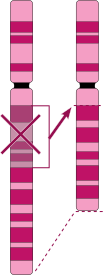
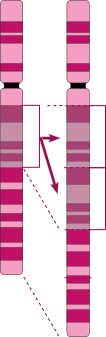
fixes

diff --git a/bio_gloss.tex b/bio_gloss.tex
@@ -7,6 +7,36 @@
     type=defi
 }
 
+\newglossaryentry{monocistronisch}{
+    name={monocistronisch},
+    description={todo},
+    type=defi
+}
+
+\newglossaryentry{polycistronisch}{
+    name={polycistronisch},
+    description={todo},
+    type=defi
+}
+
+\newglossaryentry{operon}{
+    name={Operon},
+    description={todo},
+    type=defi
+}
+
+\newglossaryentry{transelement}{
+    name={trans-Element},
+    description={Transkriptionsfaktoren (Proteine), die an die cis-Elemente binden},
+    type=defi
+}
+
+\newglossaryentry{ciselement}{
+    name={cis-Element},
+    description={regulatorische Elemente im Promotor, ``in'' der DNA},
+    type=defi
+}
+
 \newglossaryentry{nondisjunction}{
     name={Nondisjunction},
     description={Das fehlende Auseinanderweichen von zwei homologen Chromosomen bei der Meiose I oder das Nichttrennen von Schwesterchromatiden durch eine Störung der Anaphase während der Mitose, Meiose I oder der Meiose II.},

diff --git a/eukgen/sections/v4.tex b/eukgen/sections/v4.tex
@@ -39,7 +39,7 @@ Die Transkription wird von einer DNA‐abhängigen \gls{rnapol} katalysiert. \ci
 
 
 \section{RNA-Klassen in Eukaryoten}\label{sec:rna-klassen-in-eukaryoten}
-% TODO F 13
+%  F 13
 In eukaryontischen Zellen gibt es mehrere Klassen von \gls{rna}
 und es werden immer neue Klassen gefunden, die entsprechend ihrer
 Funktion oder Lokalisation in der Zelle benannt werden.
@@ -48,7 +48,7 @@ Der Anteil \gls{ncrna} steigt mit höherer Komplexität eines Organismus.
 \cite{Knust2025_9}
 
 
-\subsection{\gls{rna} Polymerasen}\label{sec:rna-polymerasen}
+\subsection{\gls{rna} Polymerasen}\label{subsec:rna-polymerasen}
 % F 14 - 20
 % TODO F 15, 18-20
 \begin{table}[h]
@@ -87,7 +87,7 @@ Der Anteil \gls{ncrna} steigt mit höherer Komplexität eines Organismus.
 \frage{aufbaurnapol}
 
 \frage{welchepolinpflanzen}
-\subsection{rDNA}
+\subsection{rDNA}\label{subsec:rdna}
 \defin{rdna}
 Die Ribosomen von Eukaryonten werden im \gls{nukleolus} zusammengebaut.
 Die Bildung des \gls{nukleolus} geht vom Nukleolus‐Organisator, der aus der \gls{nor} entsteht. \cite{Knust2025_9}
@@ -97,7 +97,7 @@ Besonderheit der \gls{rdna}: Sie hat eine ``Sichtbare Genexpression''.
 D.h. man die Genexpression direkt ``sehen'',
 weil das Genprodukt selbst \gls{rna} ist.
 
-\subsection{Aufbau der eukaryotischen \gls{mrna}}
+\subsection{Aufbau der eukaryotischen \gls{mrna}}\label{subsec:aufbau-der-eukaryotischen-gls{mrna}}
 %  F 22 - 30
 % TODO Frage Was muss man über die Enden der euk \gls{mrna} wissen
 Die Enden eukaryotischer \gls{mrna} sind modifiziert, was sie von prokaryotischer \gls{mrna} unterscheidet.
@@ -164,7 +164,7 @@ Adenosinreste).
 % TODO Exkurs: Oligo(dT) Reinigung ??? F29
 
 
-\section{Promotoren - Start der Transkription}
+\section{Promotoren - Start der Transkription}\label{sec:promotoren-start-der-transkription}
 Der \gls{promotor} bestimmt den Start der Transkription.
 Er ist durch spezifische DNA‐Sequenzen (Boxen) charakterisiert.
 Bei Eukaryonten weist er eine komplexere Organisation als bei Prokaryonten auf.
@@ -208,7 +208,7 @@ Jede \gls{rnapol} erkennt eigene, spezifische Promotorsequenzen, die ihre Zielge
 Besteht aus zwei Domänen die ca 40\% Identität aufweisen.
 % TODO muss das auf eien karte?
 
-\subsection{Boxen}
+\subsection{Boxen}\label{subsec:boxen}
 Das TATA-box Binding Protein (TBP) ist ein zentraler Faktor der Promotorerkennung bei allen drei \glspl{rnapol}.
 \defin{uas}
 \defin{urs}

diff --git a/mobi2/main.tex b/mobi2/main.tex
@@ -71,6 +71,14 @@
     \chapter{VW6 - Rekombination, Transformation, Transduktion, Konjugation}
     \input{sections/v15_VW6}
 
+    %\input{sections/v16_VW7}
+
+    \chapter{Transposons, T-DNA und (grüne) funktionelle Genomik}
+    \input{sections/v17_BW8}
+
+    \chapter{Entw.-Genetik, ``high throughput'' Sequenzierung}
+    \input{sections/v18_BW9}
+
     % \chapter{VW1}
    % \chapter{VW2}
 

diff --git a/mobi2/sections/v12_BW6.tex b/mobi2/sections/v12_BW6.tex
@@ -124,19 +124,19 @@ Beendigung der Replikation auftreten.}{\cite{Knust2025_Mutationen}}
 \begin{figure}[H]
     \begin{subfigure}[t]{0.33\textwidth}
         \centering
-        \includegraphics[width=\linewidth]{bilder/deletion}
+        \includegraphics[height=10cm]{bilder/deletion}
         \caption{Deletion}
     \end{subfigure}
     \hfill
     \begin{subfigure}[t]{0.33\textwidth}
         \centering
-        \includegraphics[width=\linewidth]{bilder/duplikation}
+        \includegraphics[height=10cm]{bilder/duplikation}
         \caption{Duplikation}
     \end{subfigure}
     \hfill
     \begin{subfigure}[t]{0.33\textwidth}
         \centering
-        \includegraphics[width=\linewidth]{bilder/inversion}
+        \includegraphics[height=10cm]{bilder/inversion}
         \caption{Inversion}
     \end{subfigure}
     \caption{Mutationen, die ein Chromosom betreffen.}

diff --git a/mobi2/sections/v10_BW5.tex b/mobi2/sections/v10_BW5.tex
@@ -125,7 +125,7 @@ Stellen vom Referenzgenom unterscheiden.
 
 \subsection{Verpackungsstufen}
 \begin{figure}[H]
-    \includegraphics[height=25cm]{bilder/verpackungsstufen}
+    \includegraphics[height=15cm]{bilder/verpackungsstufen}
 \end{figure}
 Siehe \defiref{zehnnmfaser}, \defiref{dreißignmfaser}. \defiref{chromosom} und \defiref{chromatid}.
 \defin{chromatinschleife}

diff --git a/README.md b/README.md
@@ -58,10 +58,10 @@ https://liliana-sanfilippo.github.io/uni/mobi2.pdf
 | KW 17 | Mo, 20.04.  | :construction: |                 | Fr, 24.04.  | :construction: |                 |
 | KW 18 | Mo, 27.04.  | :construction: |                 | Fr, 01.05.  | :construction: |                 |
 | KW 19 | Mo, 04.05.  | :construction: |                 | Fr, 08.05.  | :no_entry:     |                 |
-| KW 20 | Mo, 11.05.  | :construction: |                 | Fr, 15.05.  | :construction: |                 |
-| KW 21 | Mo, 18.05.  | :no_entry:     |                 | Fr, 22.05.  | :no_entry:     |                 |
+| KW 20 | Mo, 11.05.  | :construction: |                 | Fr, 12.05.  | :construction: |                 |
+| KW 21 | Mo, 18.05.  | :no_entry:     |                 | Fr, 19.05.  | :construction: |                 |
 | KW 22 | --          | --             |                 | Fr, 29.05.  | :no_entry:     |                 |
-| KW 23 | Mo, 01.06.  | :no_entry:     |                 | Fr, 05.06.  | :no_entry:     |                 |
+| KW 23 | Mo, 01.06.  | :no_entry:     |                 | Fr, 02.06.  | :no_entry:     |                 |
 | KW 24 | Mo, 08.06.  | :no_entry:     |                 | Fr, 12.06.  | :no_entry:     |                 |
 | KW 25 | Mo, 15.06.  | :no_entry:     |                 | Fr, 19.06.  | :no_entry:     |                 |
 | KW 26 | Mo, 22.06.  | :soon:         |                 | Fr, 26.06.  | :soon:         |                 |